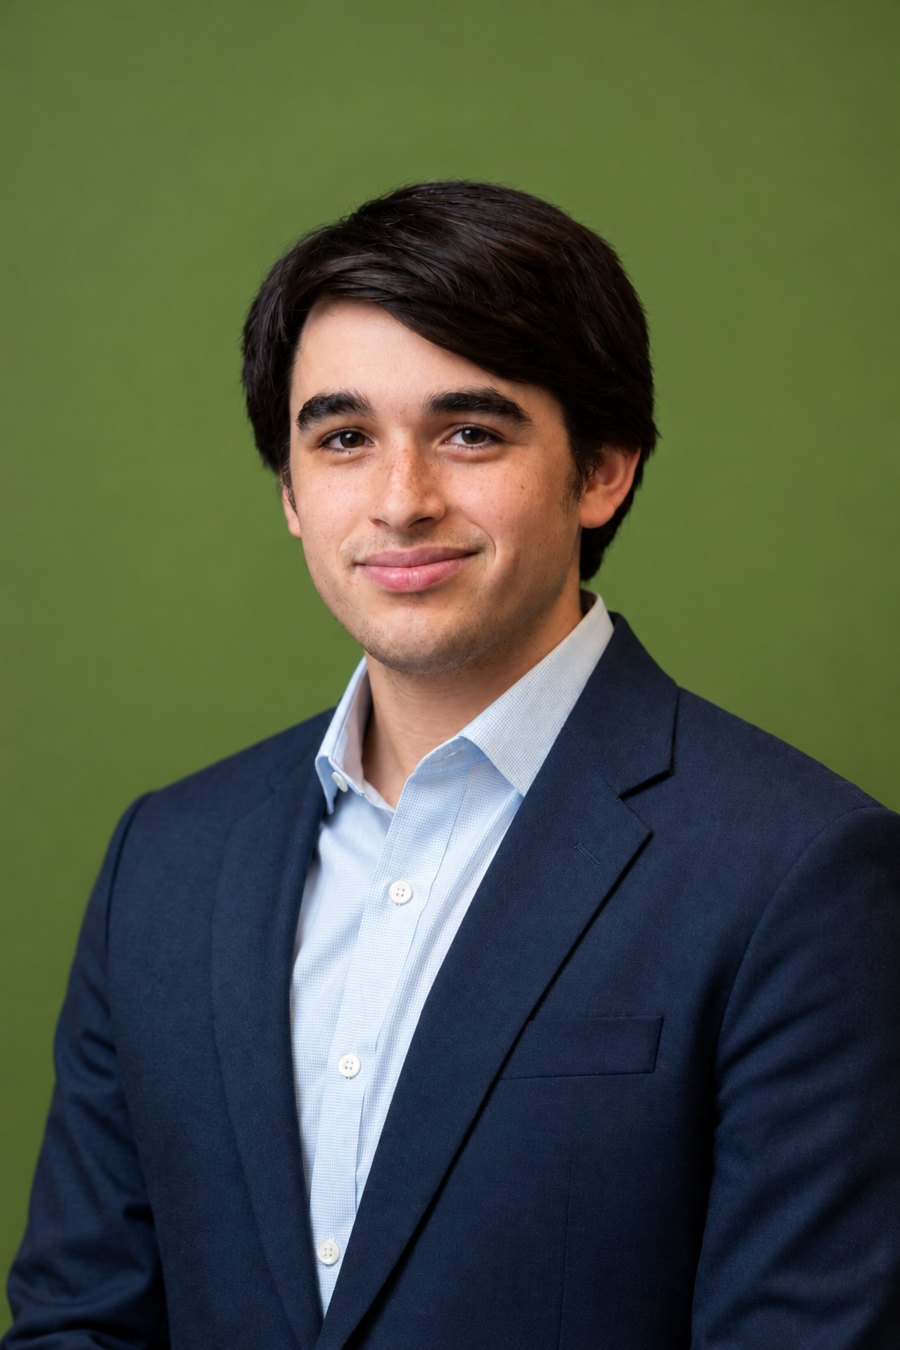
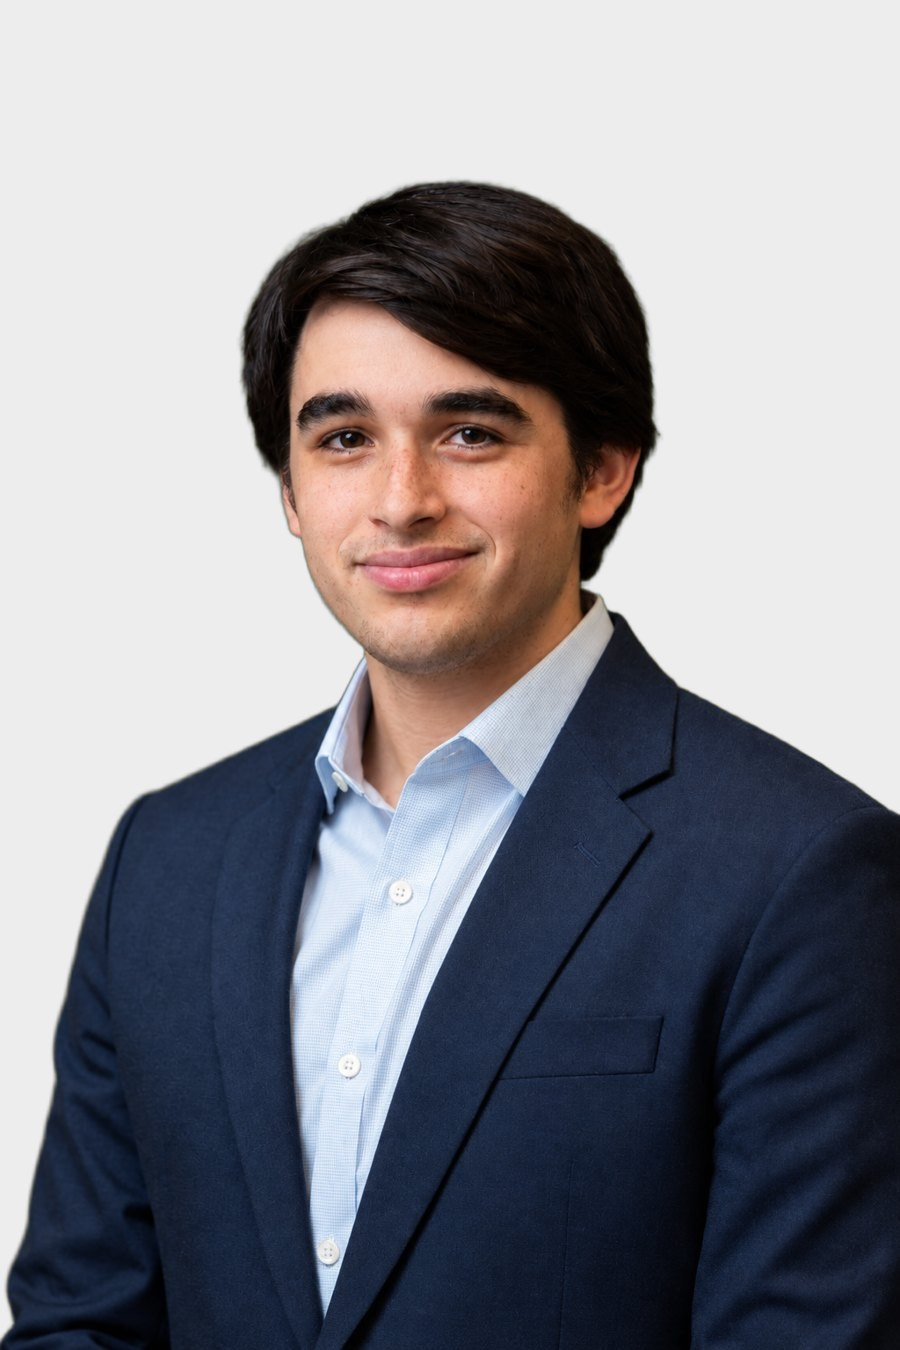
Replace the headshot's green backdrop with plain gray
Claude-Session: https://claude.ai/code/session_01X3LgmZH5haXE22BLdYX3sk

diff --git a/index.html b/index.html
@@ -43,7 +43,7 @@
         <a class="s-btn" href="mailto:itsian123@gmail.com">Email me</a>
       </div>
     </div>
-    <div class="s-photo"><img src="assets/img/headshot.webp" alt="Ian Tarter" width="900" height="1350"></div>
+    <div class="s-photo"><img src="assets/img/headshot.webp?v=2" alt="Ian Tarter" width="900" height="1350"></div>
   </div>
 </section>
 
